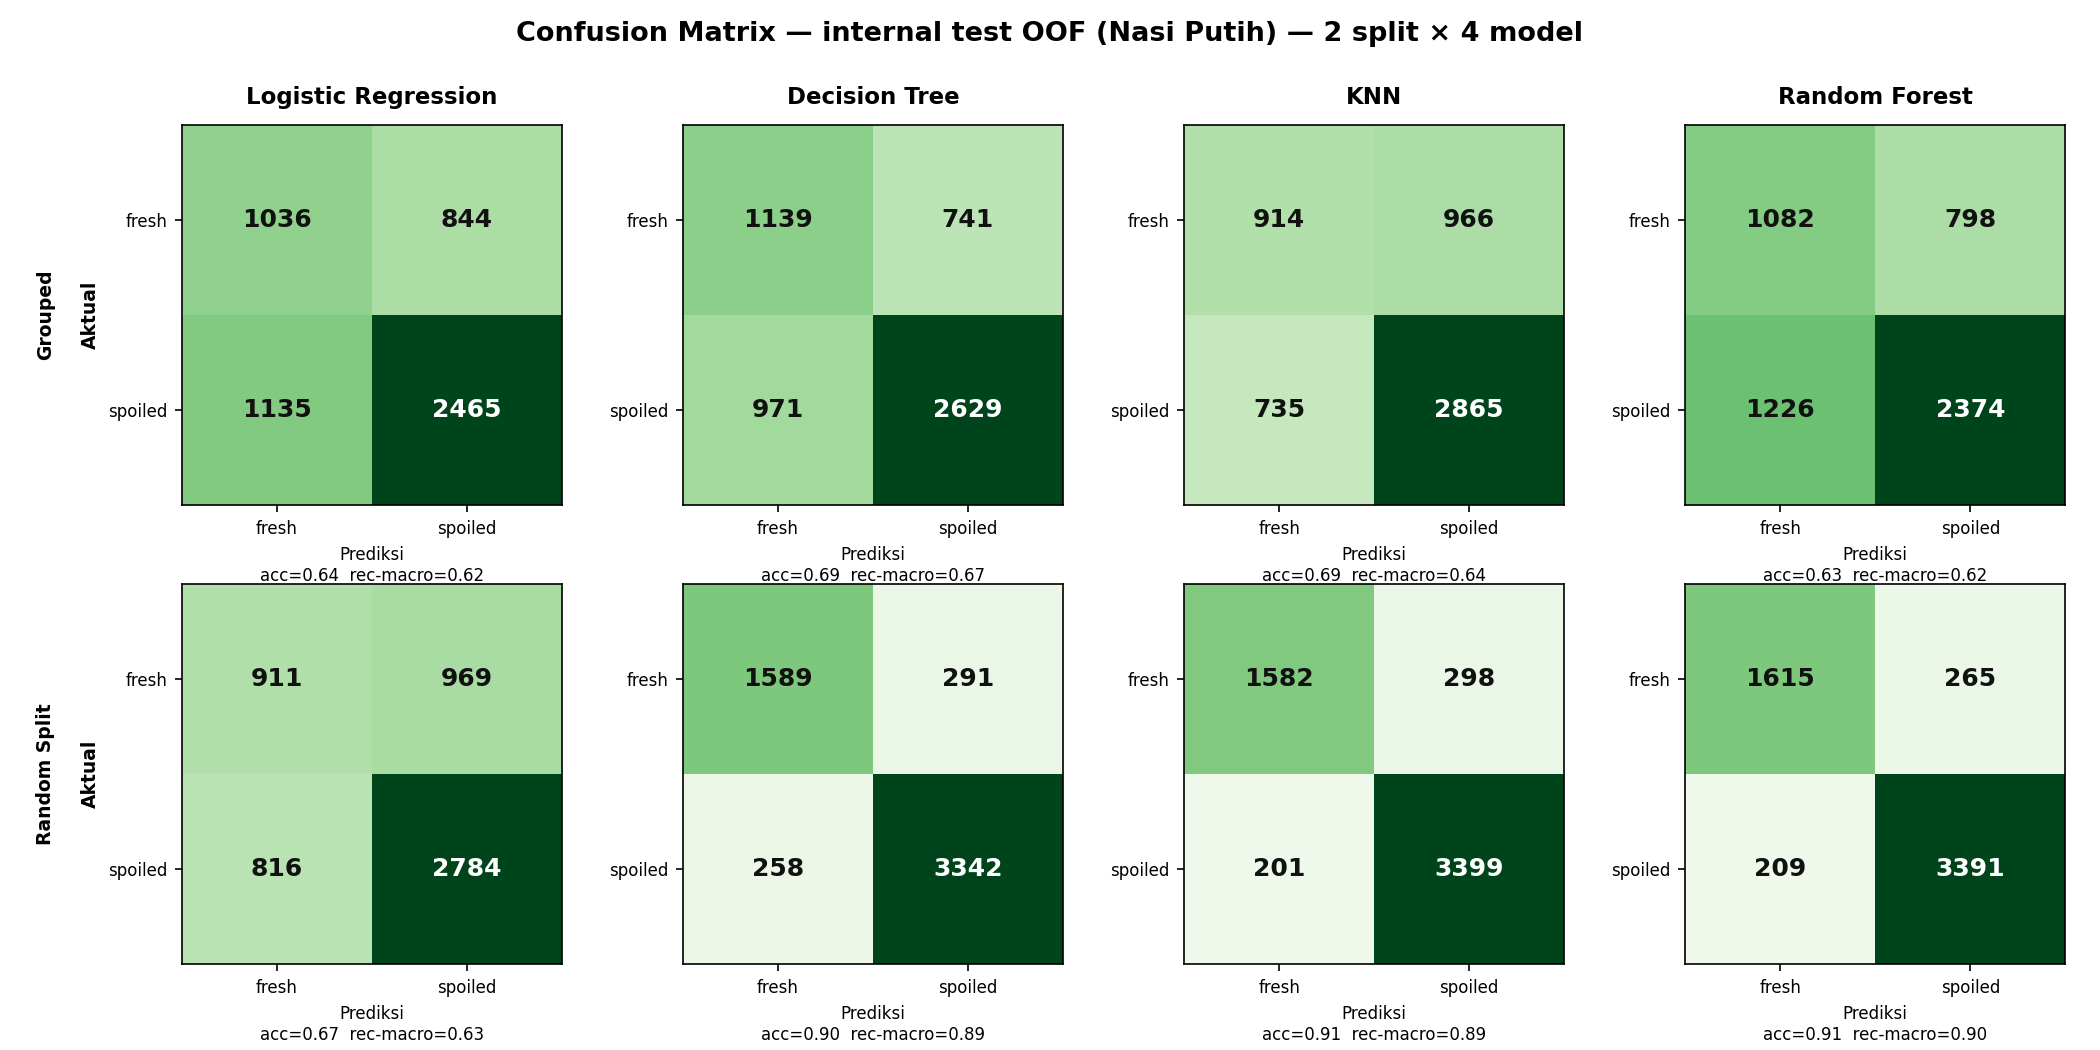
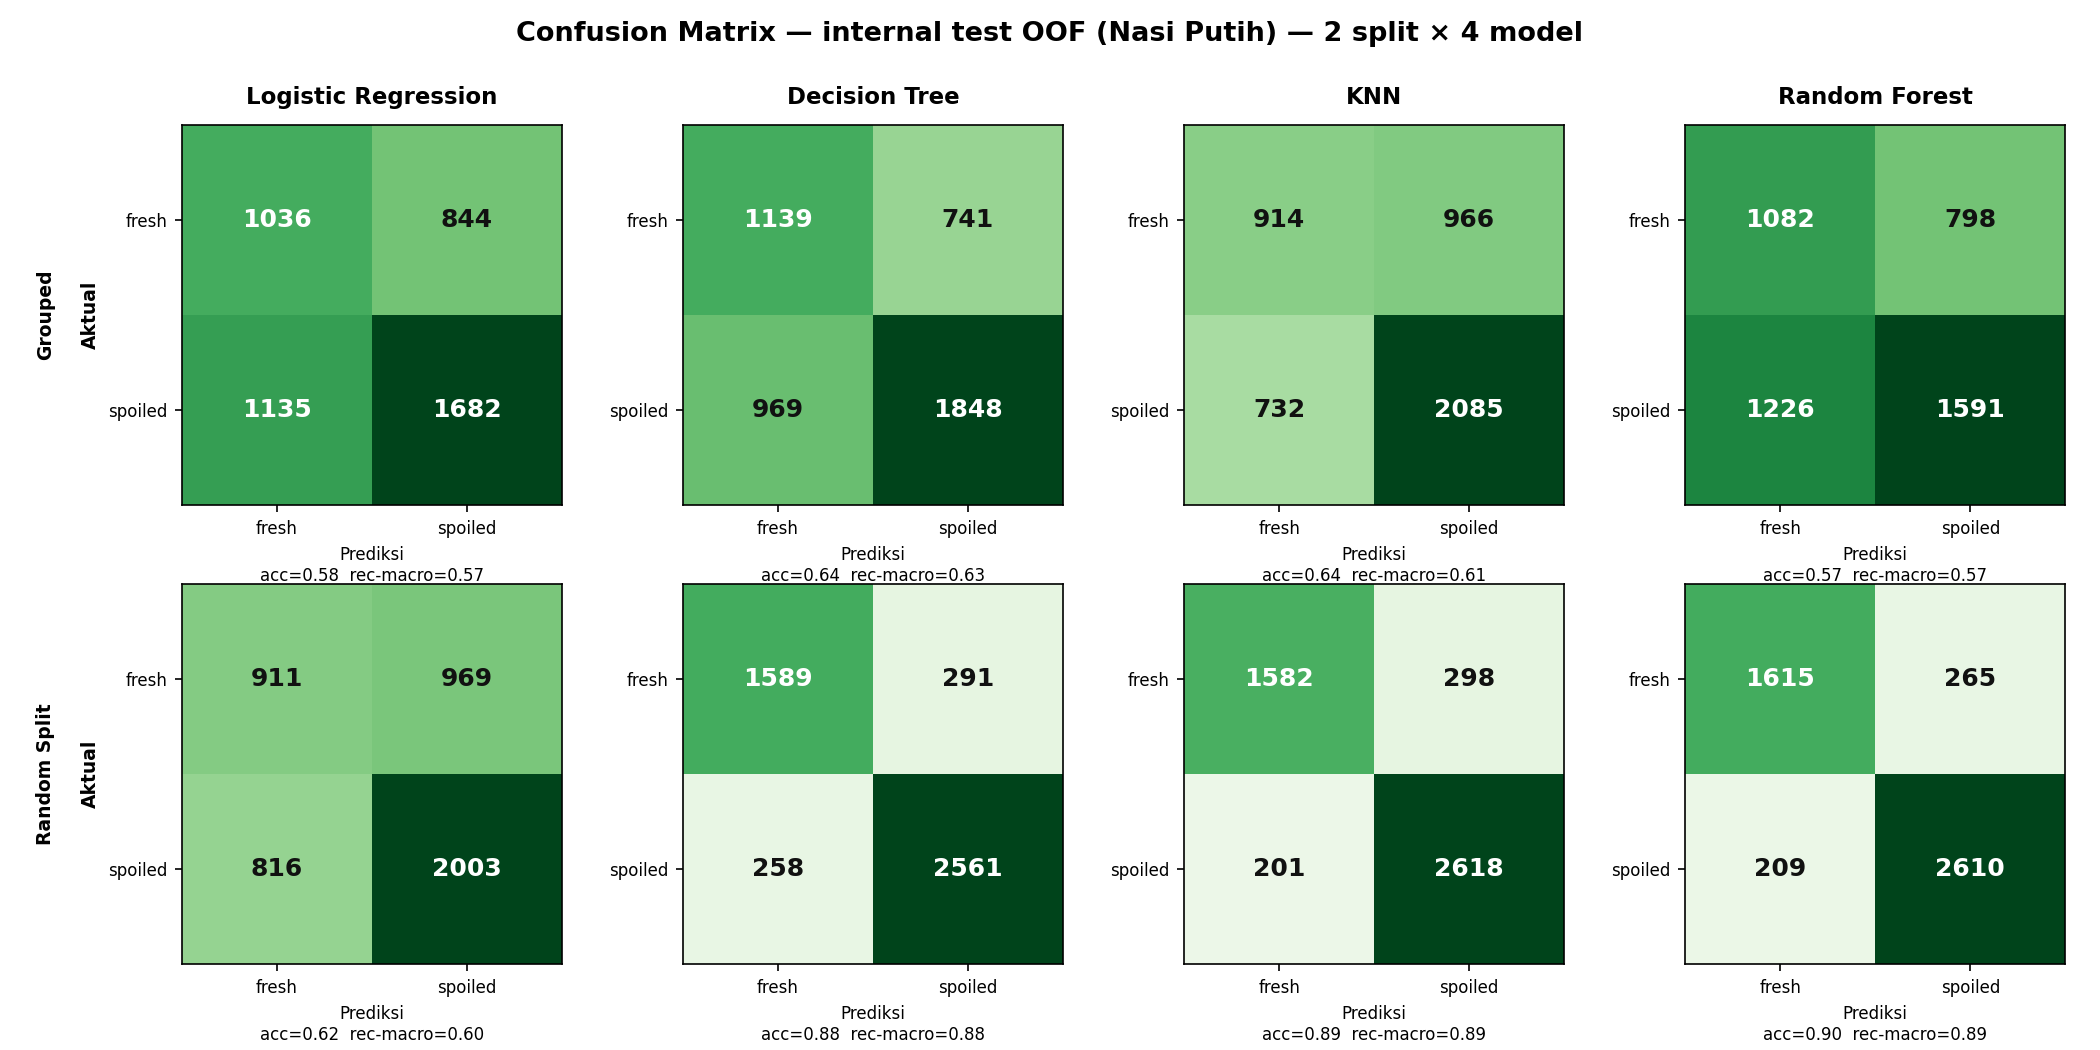
patch v4: real final

diff --git a/analisis-nasi-putih/export_dashboard_models.py b/analisis-nasi-putih/export_dashboard_models.py
@@ -1,19 +1,20 @@
 """Latih & simpan 8 pipeline (split x model) GAS-ONLY Nasi Putih + metadata.json untuk dashboard.
 
-Fitur gas-only [mq2, mq135, mq4] — TANPA food_type/humidity/tempC (single-food). MODEL DEPLOY:
-tiap (split, model) dilatih pada **SELURUH data training** (bukan 70%), tuned via CV split-nya
-sendiri lalu di-refit pada 100% data → satu model tunggal yang benar-benar dipakai. "Split" di
-sini menentukan **CV tuning**: Grouped = StratifiedGroupKFold (jujur, per-trial), Random Split =
-StratifiedKFold (baris acak, rawan bocor pada pemilihan hyperparameter). Refit F1. Dievaluasi
-pada validasi REBALANCED 50/50. train_metrics = skor inner-CV terbaik (chart train-vs-val).
+Fitur gas-only [mq2, mq135, mq4] — TANPA food_type/humidity/tempC (single-food).
 
-Catatan kejujuran: angka di sini = performa **model akhir (deployed)**, berbeda dari
-results/tabel_validation_test.md yang memakai **evaluasi metodologi** (ensemble rotasi 3-fold).
-Dua tujuan berbeda: tabel = perbandingan metodologi/kebocoran; dashboard = model yang dipakai.
+PROTOKOL 70:30 (selaras paper & pipeline tesis): tiap split dilatih pada **70% train partisinya
+sendiri** — Grouped = 2 trial utuh (fold-0 StratifiedGroupKFold, ~69:31), Random Split = 70%
+baris acak (StratifiedShuffleSplit test_size=0.30). Jadi kedua split BEDA DATA LATIH (bukan cuma
+beda hyperparameter) → peragaan kebocoran di dashboard benar-benar nyata. Tuning via inner
+StratifiedKFold(3) refit F1 — sama seperti `src/models.py:tune()` yang dipakai pipeline tesis.
+Dievaluasi pada validasi REBALANCED 50/50 (trial 0407).
 
-Mengikuti pola export_models.py (root) tetapi memakai modul gas-only analisis-nasi-putih/src.
+train_metrics = skor inner-CV terbaik (untuk chart train-vs-val dashboard).
+
+Catatan: angka di sini dari 1 model per split (partisi 70%), sedangkan
+results/tabel_validation_test.md merata-ratakan 3 model rotasi — jadi bisa berbeda tipis.
+
 Output: analisis-nasi-putih/dashboard/backend/models/{split}__{model}.joblib + metadata.json
-
 Jalankan:  cd analisis-nasi-putih && python export_dashboard_models.py
 """
 
@@ -25,7 +26,8 @@ from sklearn.base import clone
 from sklearn.metrics import (accuracy_score, f1_score, precision_score,
                              recall_score, roc_auc_score)
 from sklearn.model_selection import (GridSearchCV, RandomizedSearchCV,
-                                     StratifiedGroupKFold, StratifiedKFold)
+                                     StratifiedGroupKFold, StratifiedKFold,
+                                     StratifiedShuffleSplit)
 from sklearn.pipeline import Pipeline
 
 from src import config, data, evaluate
@@ -40,9 +42,6 @@ SPECS = model_specs()
 MODEL_SLUG = {"Logistic Regression": "logistic_regression", "Decision Tree": "decision_tree",
               "KNN": "knn", "Random Forest": "random_forest"}
 SPLIT_SLUG = {"Grouped": "grouped", "Random Split": "stratifiedkfold"}
-# "Split" = strategi CV untuk pemilihan hyperparameter (model tetap di-refit pada seluruh data).
-SEARCH_CV = {"Grouped": StratifiedGroupKFold(config.N_SPLITS, shuffle=True, random_state=RS),
-             "Random Split": StratifiedKFold(config.N_SPLITS, shuffle=True, random_state=RS)}
 
 
 def val_metrics(yt, yp, proba):              # no MCC
@@ -59,23 +58,34 @@ X, y, groups = data.build_xy(tr)
 val = data.encode_labels(data.clean(data.load(config.VAL_DIR)))
 Xval, yval, _ = data.build_xy(val)
 Xb, yb = evaluate.rebalance_5050(Xval, yval.to_numpy())      # validasi 50/50 (650:650)
+
+# ---------- partisi 70% train per split (DATA LATIH BEDA antar split) ----------
+skf_tr, _ = next(StratifiedShuffleSplit(1, test_size=0.30, random_state=RS).split(X, y))
+g_tr, _ = next(StratifiedGroupKFold(config.N_SPLITS, shuffle=True,
+                                    random_state=RS).split(X, y, groups))
+TRAIN = {"Grouped": g_tr, "Random Split": skf_tr}
 print(f"Fitur (GAS-ONLY): {config.FEATURES} | makanan: ['Nasi Putih'] | "
-      f"latih: {len(y)} baris (SELURUH data) | validasi 50/50: {len(yb)} baris\n")
+      f"validasi 50/50: {len(yb)} baris")
+for s, idx in TRAIN.items():
+    trials = sorted({t.split('_')[-1] for t in groups.to_numpy()[idx]})
+    print(f"  {s:14s}: latih {len(idx)} baris ({100*len(idx)/len(y):.1f}%) | trial latih: {trials}")
+print()
 
 
-def tune(est, grid, kind, cv, gp):
-    """Tune via CV split-nya pada SELURUH data, refit pada seluruh data (best_estimator_)."""
+def tune(est, grid, kind, xf, yf):
+    """Tune via inner StratifiedKFold(3) pada 70% train split-nya (pola src/models.py:tune)."""
     pipe = Pipeline([("prep", data.make_preprocessor()), ("clf", clone(est))])
     try:
         pipe.set_params(clf__n_jobs=1)
     except ValueError:
         pass
+    cv = StratifiedKFold(config.N_SPLITS, shuffle=True, random_state=RS)
     s = (RandomizedSearchCV(pipe, grid, n_iter=RF_N_ITER, scoring=config.SCORING,
                             refit=config.REFIT_METRIC, cv=cv, random_state=RS, n_jobs=N_JOBS)
          if kind == "random"
          else GridSearchCV(pipe, grid, scoring=config.SCORING, refit=config.REFIT_METRIC,
                            cv=cv, n_jobs=N_JOBS))
-    s.fit(X, y, groups=gp)
+    s.fit(xf, yf)
     cvr, bi = s.cv_results_, s.best_index_
     train_m = {"accuracy": float(cvr["mean_test_accuracy"][bi]),
                "precision_macro": float(cvr["mean_test_precision"][bi]),
@@ -85,17 +95,17 @@ def tune(est, grid, kind, cv, gp):
     return s.best_estimator_, s.best_params_, train_m
 
 
-meta = {"splits": list(SEARCH_CV), "models": [s[0] for s in SPECS], "food_types": ["Nasi Putih"],
+meta = {"splits": list(TRAIN), "models": [s[0] for s in SPECS], "food_types": ["Nasi Putih"],
         "features": config.FEATURES, "label_map": config.LABEL_MAP,
-        "metrics_note": ("gas-only Nasi Putih; MODEL DEPLOY dilatih pada SELURUH data training, "
-                         "tuning via CV split-nya; validasi rebalanced 50/50 (trial 0407)"),
+        "metrics_note": ("gas-only Nasi Putih; tiap split dilatih pada 70% train partisinya "
+                         "(Grouped=2 trial utuh, Random=70% baris acak); validasi rebalanced "
+                         "50/50 (trial 0407)"),
         "metrics": {}, "train_metrics": {}, "best_params": {}}
 
-for split, cv in SEARCH_CV.items():
+for split, tr_idx in TRAIN.items():
     meta["metrics"][split], meta["train_metrics"][split], meta["best_params"][split] = {}, {}, {}
-    gp = groups if split == "Grouped" else None
     for name, est, grid, kind in SPECS:
-        best, raw, train_m = tune(est, grid, kind, cv, gp)
+        best, raw, train_m = tune(est, grid, kind, X.iloc[tr_idx], y.iloc[tr_idx])
         joblib.dump(best, OUT / f"{SPLIT_SLUG[split]}__{MODEL_SLUG[name]}.joblib")
         m = val_metrics(yb, best.predict(Xb), best.predict_proba(Xb)[:, 1])
         meta["metrics"][split][name] = m
@@ -104,4 +114,4 @@ for split, cv in SEARCH_CV.items():
         print(f"  [{split:20s}] {name:22s} val50/50 acc={m['accuracy']:.3f} auc={m['roc_auc']:.3f}")
 
 (OUT / "metadata.json").write_text(json.dumps(meta, indent=2, default=str))
-print(f"\n{len(SEARCH_CV) * len(SPECS)} model GAS-ONLY Nasi Putih + metadata.json di {OUT}")
+print(f"\n{len(TRAIN) * len(SPECS)} model GAS-ONLY Nasi Putih (70:30 per split) + metadata.json di {OUT}")

diff --git a/analisis-nasi-putih/src/evaluate.py b/analisis-nasi-putih/src/evaluate.py
@@ -55,9 +55,32 @@ def _agg(fold_dicts):
     return out
 
 
-def cv_evaluate(X, y, groups, Xv, yv):
-    """CV rotasi penuh untuk 2 skema split. Return (internal_df, validation_df) dgn mean±std."""
+def _trim_70_30(tei, elapsed, run, n_train):
+    """Pangkas EKOR fold uji (baris terakhir tiap trial, urut waktu) sampai train:test = 70:30.
+
+    Label = ambang waktu, jadi ekor tiap trial 100% spoiled. Memangkas dari EKOR (bukan acak)
+    menjaga data uji tetap kontigu secara temporal DAN tetap memuat kedua kelas. Aturan trim
+    ini dipakai SAMA untuk Grouped & Random Split, sehingga satu-satunya beda antar keduanya
+    tetap cara pengelompokan (bukan cara trim). Permintaan pembimbing: internal test 70:30.
+    """
+    target = int(round(n_train * 30 / 70))
+    if len(tei) <= target:
+        return tei
+    ratio = target / len(tei)
+    keep = []
+    for r in np.unique(run[tei]):
+        idx = tei[run[tei] == r]
+        idx = idx[np.argsort(elapsed[idx], kind="stable")]      # urut waktu dalam trial
+        keep.append(idx[:max(1, int(round(len(idx) * ratio)))])  # ambil awal, buang ekor
+    return np.sort(np.concatenate(keep))
+
+
+def cv_evaluate(X, y, groups, Xv, yv, elapsed):
+    """CV rotasi penuh 2 skema split; internal test tiap fold dipangkas ekor -> 70:30.
+    Return (internal_df, validation_df, internal_pooled_df, validation_pooled_df)."""
     yn = y.to_numpy()
+    run = groups.to_numpy()
+    elapsed = np.asarray(elapsed)
     schemes = [
         ("Grouped", StratifiedGroupKFold(config.N_SPLITS, shuffle=True,
                                          random_state=config.RANDOM_STATE), True),
@@ -70,6 +93,10 @@ def cv_evaluate(X, y, groups, Xv, yv):
         folds = list(cv.split(X, y, groups)) if grouped else list(cv.split(X, y))
         per = {m: {"int": [], "val": [], "oy": [], "op": [], "vp": []} for m in MODELS}
         for tri, tei in folds:
+            tei = _trim_70_30(tei, elapsed, run, len(tri))       # internal test -> 70:30
+            pct = 100 * len(tri) / (len(tri) + len(tei))
+            print(f"    [{sname}] fold: latih {len(tri)} / uji {len(tei)} = {pct:.1f}:{100-pct:.1f}"
+                  f" | uji fresh {int((yn[tei]==0).sum())} / spoiled {int((yn[tei]==1).sum())}")
             yte = yn[tei]
             for name, est, grid, kind in model_specs():
                 best, _ = tune(est, grid, kind, X.iloc[tri], y.iloc[tri])

diff --git a/analisis-nasi-putih/run_analysis.py b/analisis-nasi-putih/run_analysis.py
@@ -57,6 +57,7 @@ def main():
     print("Trial:", sorted(tr["run_id"].unique()))
     tr = data.encode_labels(tr)
     Xtr, ytr, groups = data.build_xy(tr)
+    elapsed_tr = tr["elapsed_sec"].to_numpy()      # metadata utk trailing-trim 70:30 (bukan fitur)
     print(f"Fitur (gas-only): {list(Xtr.columns)}\n")
 
     # ---- VALIDATION -> 50/50 ----
@@ -68,9 +69,10 @@ def main():
     print(f"VALIDATION 50/50: {len(yv)} baris (fresh {(yv==0).sum()} / spoiled {(yv==1).sum()})\n")
 
     # ---- Cross-validation (Grouped=StratifiedGroupKFold, Random=StratifiedKFold) ----
-    print("Cross-validation 3 fold (4 model x 2 split)…")
+    print("Cross-validation 3 fold, internal test dipangkas ekor -> 70:30 (4 model x 2 split)…")
     (internal_df, validation_df,
-     internal_pooled_df, validation_pooled_df) = evaluate.cv_evaluate(Xtr, ytr, groups, Xv, yv)
+     internal_pooled_df, validation_pooled_df) = evaluate.cv_evaluate(Xtr, ytr, groups, Xv, yv,
+                                                                      elapsed_tr)
     params_df = evaluate.final_params(Xtr, ytr)
 
     # Internal & validation = pooled (tanpa std, konsisten dgn figur masing-masing).
@@ -78,9 +80,11 @@ def main():
     validation_pooled_df.round(4).to_csv(config.RESULTS_DIR / "metrics_validation.csv", index=False)
     _write_table_md(internal_pooled_df, config.RESULTS_DIR / "tabel_internal_test.md",
                     "Evaluasi Internal Test — Nasi Putih (gas-only)",
-                    ["Metrik dari prediksi **out-of-fold (OOF) 3-fold digabung** (lintas-trial),",
-                     "sumber sama dengan `confusion_matrices_internal.png` & `roc_curves_internal.png`",
-                     "→ angka tabel = angka gambar. Positif = spoiled; threshold 0.5."])
+                    ["Rotasi 3-fold; data uji tiap fold **dipangkas ekor (trailing-trim) → train:test = 70:30**",
+                     "(ekor tiap trial dibuang urut waktu, agar uji tetap kontigu temporal & memuat 2 kelas).",
+                     "Metrik dari prediksi **out-of-fold 3-fold digabung** (lintas-trial), sumber sama dengan",
+                     "`confusion_matrices_internal.png` & `roc_curves_internal.png` → angka tabel = angka gambar.",
+                     "Positif = spoiled; threshold 0.5."])
     _write_table_md(validation_pooled_df, config.RESULTS_DIR / "tabel_validation_test.md",
                     "Evaluasi Validation Test 50/50 — Nasi Putih (gas-only)",
                     ["Metrik dari probabilitas **3-fold dirata-rata per baris** (soft-ensemble),",

diff --git a/analisis-nasi-putih/results/tabel_internal_test.md b/analisis-nasi-putih/results/tabel_internal_test.md
@@ -1,23 +1,25 @@
 # Evaluasi Internal Test — Nasi Putih (gas-only)
 
-Metrik dari prediksi **out-of-fold (OOF) 3-fold digabung** (lintas-trial),
-sumber sama dengan `confusion_matrices_internal.png` & `roc_curves_internal.png`
-→ angka tabel = angka gambar. Positif = spoiled; threshold 0.5.
+Rotasi 3-fold; data uji tiap fold **dipangkas ekor (trailing-trim) → train:test = 70:30**
+(ekor tiap trial dibuang urut waktu, agar uji tetap kontigu temporal & memuat 2 kelas).
+Metrik dari prediksi **out-of-fold 3-fold digabung** (lintas-trial), sumber sama dengan
+`confusion_matrices_internal.png` & `roc_curves_internal.png` → angka tabel = angka gambar.
+Positif = spoiled; threshold 0.5.
 
 ## Grouped
 
 | Model | Accuracy | Precision (macro) | Recall (macro) | F1 (macro) | AUC |
 |---|---|---|---|---|---|
-| Logistic Regression | 0.639 | 0.611 | 0.618 | 0.613 | 0.653 |
-| Decision Tree | 0.688 | 0.660 | 0.668 | 0.663 | 0.750 |
-| KNN | 0.690 | 0.651 | 0.641 | 0.645 | 0.694 |
-| Random Forest | 0.631 | 0.609 | 0.617 | 0.609 | 0.721 |
+| Logistic Regression | 0.579 | 0.572 | 0.574 | 0.571 | 0.569 |
+| Decision Tree | 0.636 | 0.627 | 0.631 | 0.627 | 0.691 |
+| KNN | 0.638 | 0.619 | 0.613 | 0.615 | 0.651 |
+| Random Forest | 0.569 | 0.567 | 0.570 | 0.564 | 0.651 |
 
 ## Random Split
 
 | Model | Accuracy | Precision (macro) | Recall (macro) | F1 (macro) | AUC |
 |---|---|---|---|---|---|
-| Logistic Regression | 0.674 | 0.635 | 0.629 | 0.631 | 0.798 |
-| Decision Tree | 0.900 | 0.890 | 0.887 | 0.888 | 0.945 |
-| KNN | 0.909 | 0.903 | 0.893 | 0.898 | 0.965 |
-| Random Forest | 0.914 | 0.906 | 0.900 | 0.903 | 0.971 |
+| Logistic Regression | 0.620 | 0.601 | 0.598 | 0.598 | 0.743 |
+| Decision Tree | 0.883 | 0.879 | 0.877 | 0.878 | 0.936 |
+| KNN | 0.894 | 0.893 | 0.885 | 0.888 | 0.957 |
+| Random Forest | 0.899 | 0.897 | 0.892 | 0.894 | 0.963 |